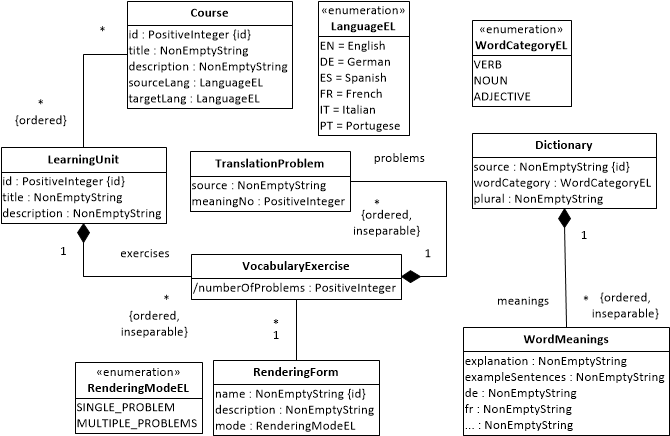
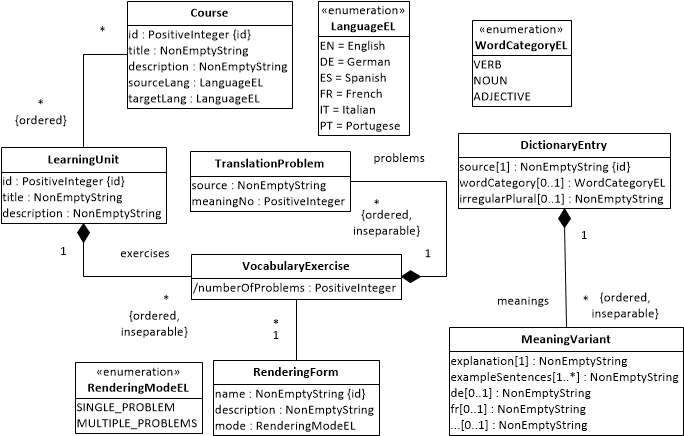
add VocabTrain app improve sTORAGEmANAGER

diff --git a/src/storage/sTORAGEmANAGER.js b/src/storage/sTORAGEmANAGER.js
@@ -45,13 +45,16 @@ sTORAGEmANAGER.prototype.createEmptyDb = function (classes) {
       dbName = this.adapter.dbName;
   return new Promise( function (resolve) {
     var modelClasses=[];
-    if (classes && classes.length > 0) {
+    if (Array.isArray( classes) && classes.length > 0) {
       modelClasses = classes;
     } else {
       Object.keys( cLASS).forEach( function (key) {
-        // collect all non-abstract cLASSes that are not datatype classes
-        if (!cLASS[key].isAbstract && !cLASS[key].isComplexDatatype) {
-          modelClasses.push( cLASS[key]);
+        // test if cLASS[key] represents a cLASS
+        if (typeof cLASS[key] === "function" && cLASS[key].properties) {
+          // collect all non-abstract cLASSes that are not datatype classes
+          if (!cLASS[key].isAbstract && !cLASS[key].isComplexDatatype) {
+            modelClasses.push( cLASS[key]);
+          }
         }
       });
     }
@@ -63,50 +66,47 @@ sTORAGEmANAGER.prototype.createEmptyDb = function (classes) {
  * Generic method for creating and "persisting" new model objects
  * @method
  * @param {object} mClass  The model cLASS concerned
- * @param {object} records  The object creation slots
+ * @param {object} rec  A record or record list
  */
-sTORAGEmANAGER.prototype.add = function (mClass, records) {
+sTORAGEmANAGER.prototype.add = function (mClass, rec) {
   var adapterName = this.adapter.name,
       dbName = this.adapter.dbName,
       createLog = this.createLog,
-      checkConstraints = this.validateBeforeSave;
+      checkConstraints = this.validateBeforeSave,
+      records=[], validRecords=[];
+  if (!Array.isArray( rec)) records = [rec];
+  else if (typeof rec === "object") records = rec;
+  else throw Error("2nd argument of 'add' must be a record or record list!");
+  // create auto-IDs if required
+  if (mClass.properties.id && mClass.properties.id.range === "AutoNumber") {
+    records.forEach( function (rec) {
+      if (!rec.id) {  // do not overwrite assigned ID values
+        if (typeof mClass.getAutoId === "function") rec.id = mClass.getAutoId();
+        else if (mClass.idCounter !== undefined) rec.id = ++mClass.idCounter;
+      }
+    })
+  }
+  // check constraints before save if required
+  if (checkConstraints) {
+    records.forEach( function (r) {
+      try {newObj = new mClass( r);}  // check constraints
+      catch (e) {
+        if (e instanceof ConstraintViolation) {
+          console.log( e.constructor.name +": "+ e.message);
+        } else console.log( e);
+      }
+      if (newObj) validRecords.push( newObj);
+    });
+    records = validRecords;
+  }
   return new Promise( function (resolve) {
     var newObj=null, objID="";
-    if (Array.isArray( records)) {  // bulk insertion
-      if (records[0] && !records[0].id && typeof mClass.getAutoId === "function") {
-        records.forEach( function (rec) {
-          rec.id = mClass.getAutoId();
-        })
-      }
-      sTORAGEmANAGER.adapters[adapterName].add( dbName, mClass, records)
-      .then( function () {
-        if (createLog) console.log( records.length +" "+ mClass.Name +"s added.");
-        if (typeof resolve === "function") resolve();
-      });
-    } else {  // single record insertion
-      if (!records.id && typeof mClass.getAutoId === "function") {
-        records.id = mClass.getAutoId();
-      }
-      if (checkConstraints) {
-        try {newObj = new mClass( records);}  // check constraints
-        catch (e) {
-          if (e instanceof ConstraintViolation) {
-            console.log( e.constructor.name +": "+ e.message);
-          } else console.log( e);
-        }
-      } else {
-        newObj = records;
-      }
-      if (newObj) {
-        objID = newObj.id;  // save object ID
-        sTORAGEmANAGER.adapters[adapterName].add( dbName, mClass, newObj).then( function () {
-          if (createLog) console.log( util.invCamelToUppercase( mClass.Name) +" "+ objID +" added.");
-          if (typeof resolve === "function") resolve();
-        }).catch( function (error) {
-          console.log( error.name +": "+ error.message);
-        });
-      }
-    }
+    sTORAGEmANAGER.adapters[adapterName].add( dbName, mClass, records).then( function () {
+      if (createLog) console.log( records.length +" "+ mClass.Name +"(s) added.");
+      if (typeof resolve === "function") resolve();
+    }).catch( function (error) {
+      console.log( error.name +": "+ error.message);
+    });
   });
 };
 /**

diff --git a/apps/VocabTrain/src/c/app.js b/apps/VocabTrain/src/c/app.js
@@ -22,8 +22,7 @@ vt.c.app = {
     vt.c.storeMan = new sTORAGEmANAGER( storageAdapter);
     vt.c.storeMan.validateBeforeSave = true;
     vt.c.storeMan.createLog = true;
-    vt.c.storeMan.createEmptyDb([vt.DictionaryEntry]).then(
-        vt.c.dictEntries.manage.initialize);
+    vt.c.storeMan.createEmptyDb().then( vt.c.dictEntries.manage.initialize);
   },
   createTestData: function () {
     vt.c.storeMan.add( vt.DictionaryEntry, [
@@ -46,6 +45,27 @@ vt.c.app = {
             de:"Fähigkeit", fr:"capacité / faculté / compétence"
           })
         ]},
+    ]);
+    vt.c.storeMan.add( vt.RenderingForm, [
+      {name: "Enter Text", description: "Enter a correct translation of a word or phrase.",
+        renderingMode: vt.RenderingModeEL.SINGLE_PROBLEM},
+      {name: "Multiple Choice", description: "Mark a choice as a correct translation of a word or phrase.",
+        renderingMode: vt.RenderingModeEL.SINGLE_PROBLEM},
+      {name: "Concentration Game", description: "Find correct translation pairs in a Concentration Game grid.",
+        renderingMode: vt.RenderingModeEL.MULTIPLE_PROBLEMS},
+    ]);
+    vt.c.storeMan.add( vt.LearningUnit, [
+      {title: "Basic Vocabulary Unit 1", description: "This learning unit is about ...",
+        exercises: [
+          new vt.VocabularyExercise({
+            renderingForm: "Simple Translation",
+            problems: [
+              new vt.TranslationProblem({source: "abandon", meaningVariantNo: 1}),
+              new vt.TranslationProblem({source: "abandon", meaningVariantNo: 2}),
+              new vt.TranslationProblem({source: "ability", meaningVariantNo: 1})
+            ],
+          })
+      ]}
     ]);
   }
 };

diff --git a/apps/VocabTrain/index.html b/apps/VocabTrain/index.html
@@ -27,7 +27,6 @@
   <script src="../../lib/util.js"></script>
   <script src="../../lib/dom.js"></script>
   <script src="../../lib/errorTypes.js"></script>
-  <script src="../../lib/xhr.js"></script>
   <script src="../../src/eNUMERATION.js"></script>
   <script src="../../src/cLASS.js"></script>
   <script src="../../src/oBJECTvIEW.js"></script>
@@ -38,6 +37,10 @@
   <script src="src/c/dictEntries.js"></script>
   <script src="src/m/MeaningVariant.js"></script>
   <script src="src/m/DictionaryEntry.js"></script>
+  <script src="src/m/RenderingForm.js"></script>
+  <script src="src/m/VocabularyExercise.js"></script>
+  <script src="src/m/TranslationProblem.js"></script>
+  <script src="src/m/LearningUnit.js"></script>
   <script>
     window.addEventListener("load", vt.c.app.initialize);
   </script>
@@ -53,10 +56,12 @@
     </div>
     <nav class="secondary">
       <ul>
+        <!--
         <li><button type="button" onclick="vt.v.dictEntries.create.setupUserInterface()" title="Create">C</button></li>
         <li><button type="button" onclick="vt.v.dictEntries.retrieveAndListAll.setupUserInterface()" title="Retrieve">R</button></li>
         <li><button type="button" onclick="vt.v.dictEntries.update.setupUserInterface()" title="Update">U</button></li>
         <li><button type="button" onclick="vt.v.dictEntries.destroy.setupUserInterface()" title="Delete">D</button></li>
+        -->
       </ul>
     </nav>
   </div>

diff --git a/apps/VocabTrain/src/m/VocabularyExercise.js b/apps/VocabTrain/src/m/VocabularyExercise.js
@@ -1,0 +1,31 @@
+/**
+ * Object type
+ * @class
+ */
+vt.VocabularyExercise = new cLASS({
+  Name: "VocabularyExercise",
+  isComplexDatatype: true,
+  properties: {
+    "renderingForm": {range:"RenderingForm", label:"Rendering form"},
+    "problems": {range: "TranslationProblem", maxCard: Infinity, label: "Exercises"}
+  },
+  methods: {
+    /**
+     * @method
+     * @return {number}  The number of problems in learning unit
+     */
+    "getNmrOfProblems": function () {
+      var n=0, rf=null;
+      for (var i=0; i < this.exercises.length; i++) {
+        rf = this.exercises[i].renderingForm;
+        if (!rf.noEvaluation &&
+            (!vt.env.isTouchScreenDevice || rf.worksForTouchScreens) &&
+            (!vt.env.isIE9 || rf.worksForIE9)
+        ) {
+          n = n + this.exercises[i].numberOfProblems;
+        }
+      }
+      return n;
+    }
+  }
+});

diff --git a/apps/VocabTrain/src/m/DictionaryEntry.js b/apps/VocabTrain/src/m/DictionaryEntry.js
@@ -1,0 +1,20 @@
+/**
+ * Enumeration QuestionTypeEL
+ * @enum
+ */
+vt.WordCategoryEL = new eNUMERATION("WordCategoryEL",["verb", "noun", "adjective"]);
+
+/**
+ * Object type Dictionary
+ * @class
+ */
+vt.DictionaryEntry = new cLASS({
+  Name: "DictionaryEntry",
+  primaryKey: "source",
+  properties: {
+    "source": {range:"NonEmptyString", isID:true, label:"Source text"},
+    "wordCategory": {range:"WordCategoryEL", label:"Word category"},
+    "irregularPlural": {range:"NonEmptyString", label:"Plural form", optional: true},
+    "meanings": {range:"MeaningVariant", maxCard: Infinity, label:"Meaning variants"}
+  }
+});

diff --git a/apps/VocabTrain/src/m/LearningUnit.js b/apps/VocabTrain/src/m/LearningUnit.js
@@ -1,0 +1,16 @@
+/**
+ * Object type
+ * @class
+ */
+vt.LearningUnit = new cLASS({
+  Name: "LearningUnit",
+  properties: {
+    "id": {range:"AutoNumber", label:"ID number"},
+    "title": {range:"NonEmptyString", min: 2, max: 200, label:"Title"},
+    "description": {range:"NonEmptyString", min: 10, max: 1000,
+      label:"Description"},
+    //"subjectArea": {range:"NonEmptyString", min: 2, max: 200, label:"Subject area"},
+    "exercises": {range: "VocabularyExercise", maxCard: 7, label: "Exercises"}
+  }
+});
+vt.LearningUnit.idCounter = 0;

diff --git a/apps/VocabTrain/src/m/RenderingForm.js b/apps/VocabTrain/src/m/RenderingForm.js
@@ -1,0 +1,20 @@
+/**
+ * Enumeration QuestionTypeEL
+ * @enum
+ */
+vt.RenderingModeEL = new eNUMERATION("RenderingModeEL",["single problem", "multiple problems"]);
+
+/**
+ * Object type
+ * @class
+ */
+vt.RenderingForm = new cLASS({
+  Name: "RenderingForm",
+  primaryKey: "name",
+  properties: {
+    "name": {range:"NonEmptyString", min: 2, max: 200, label:"Title"},
+    "description": {range:"NonEmptyString", min: 10, max: 1000,
+      label:"Description"},
+    "renderingMode": {range:"RenderingModeEL", label:"Rendering mode"}
+  }
+});

diff --git a/src/cLASS.js b/src/cLASS.js
@@ -124,7 +124,7 @@ function cLASS (classSlots) {
   if (classSlots.isComplexDatatype) constr.isComplexDatatype = true;
   if (classSlots.isAbstract) constr.isAbstract = true;
   if (classSlots.shortLabel) constr.shortLabel = classSlots.shortLabel;
-  if (classSlots.keyPath) constr.keyPath = classSlots.keyPath;
+  if (classSlots.primaryKey) constr.primaryKey = classSlots.primaryKey;
   if (supertypeName) {
     constr.supertypeName = supertypeName;
     superclass = cLASS[supertypeName];

diff --git a/src/storage/sTORAGEmANAGER_IndexedDB.js b/src/storage/sTORAGEmANAGER_IndexedDB.js
@@ -13,7 +13,7 @@ sTORAGEmANAGER.adapters["IndexedDB"] = {
       idb.open( dbName, 1, function (upgradeDb) {
         modelClasses.forEach( function (mc) {
           var tableName = util.class2TableName( mc.Name),
-              keyPath = mc.keyPath || "id";
+              keyPath = mc.primaryKey || "id";
           if (!upgradeDb.objectStoreNames.contains( tableName)) {
             upgradeDb.createObjectStore( tableName, {keyPath: keyPath});
           }

diff --git a/apps/VocabTrain/src/m/TranslationProblem.js b/apps/VocabTrain/src/m/TranslationProblem.js
@@ -1,0 +1,14 @@
+/**
+ * Complex Datatype
+ * @class
+ */
+vt.TranslationProblem = new cLASS({
+  Name: "TranslationProblem",
+  isComplexDatatype: true,
+  properties: {
+    "source": {range:"NonEmptyString", label:"Source text"},
+    "meaningVariantNo": {range: "PositiveInteger", label: "Meaning variant number"}
+  },
+  methods: {
+  }
+});
